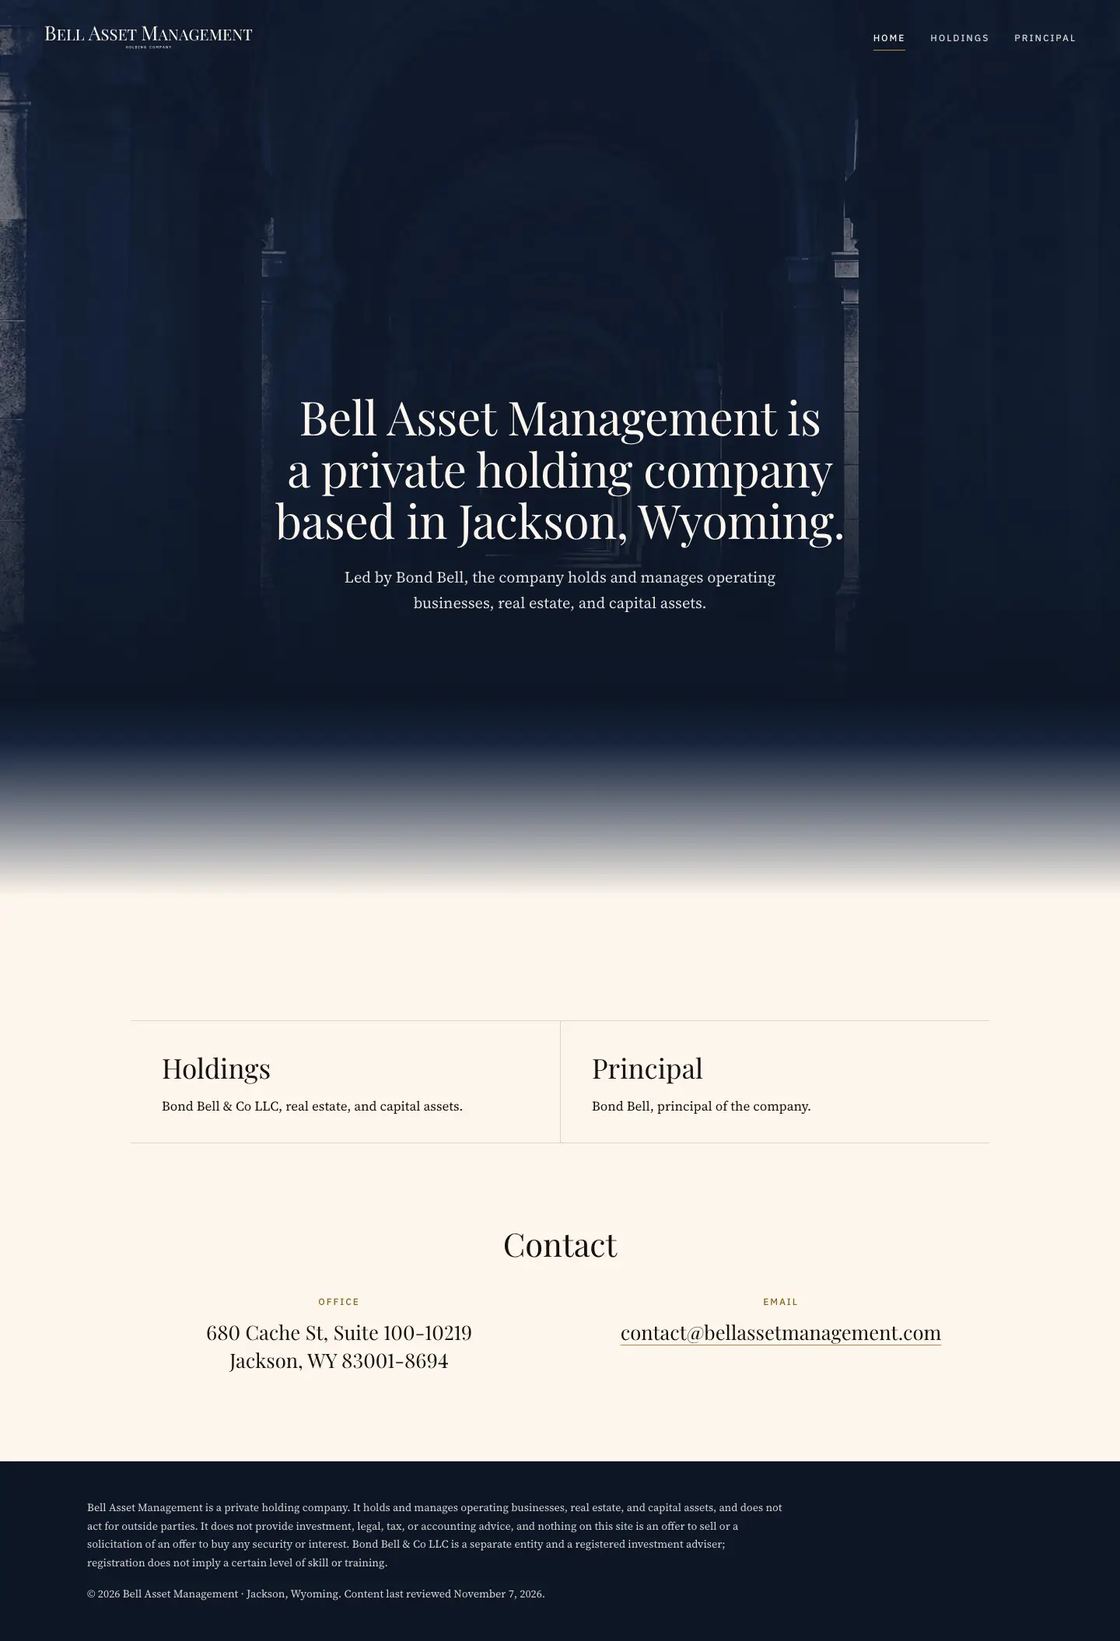
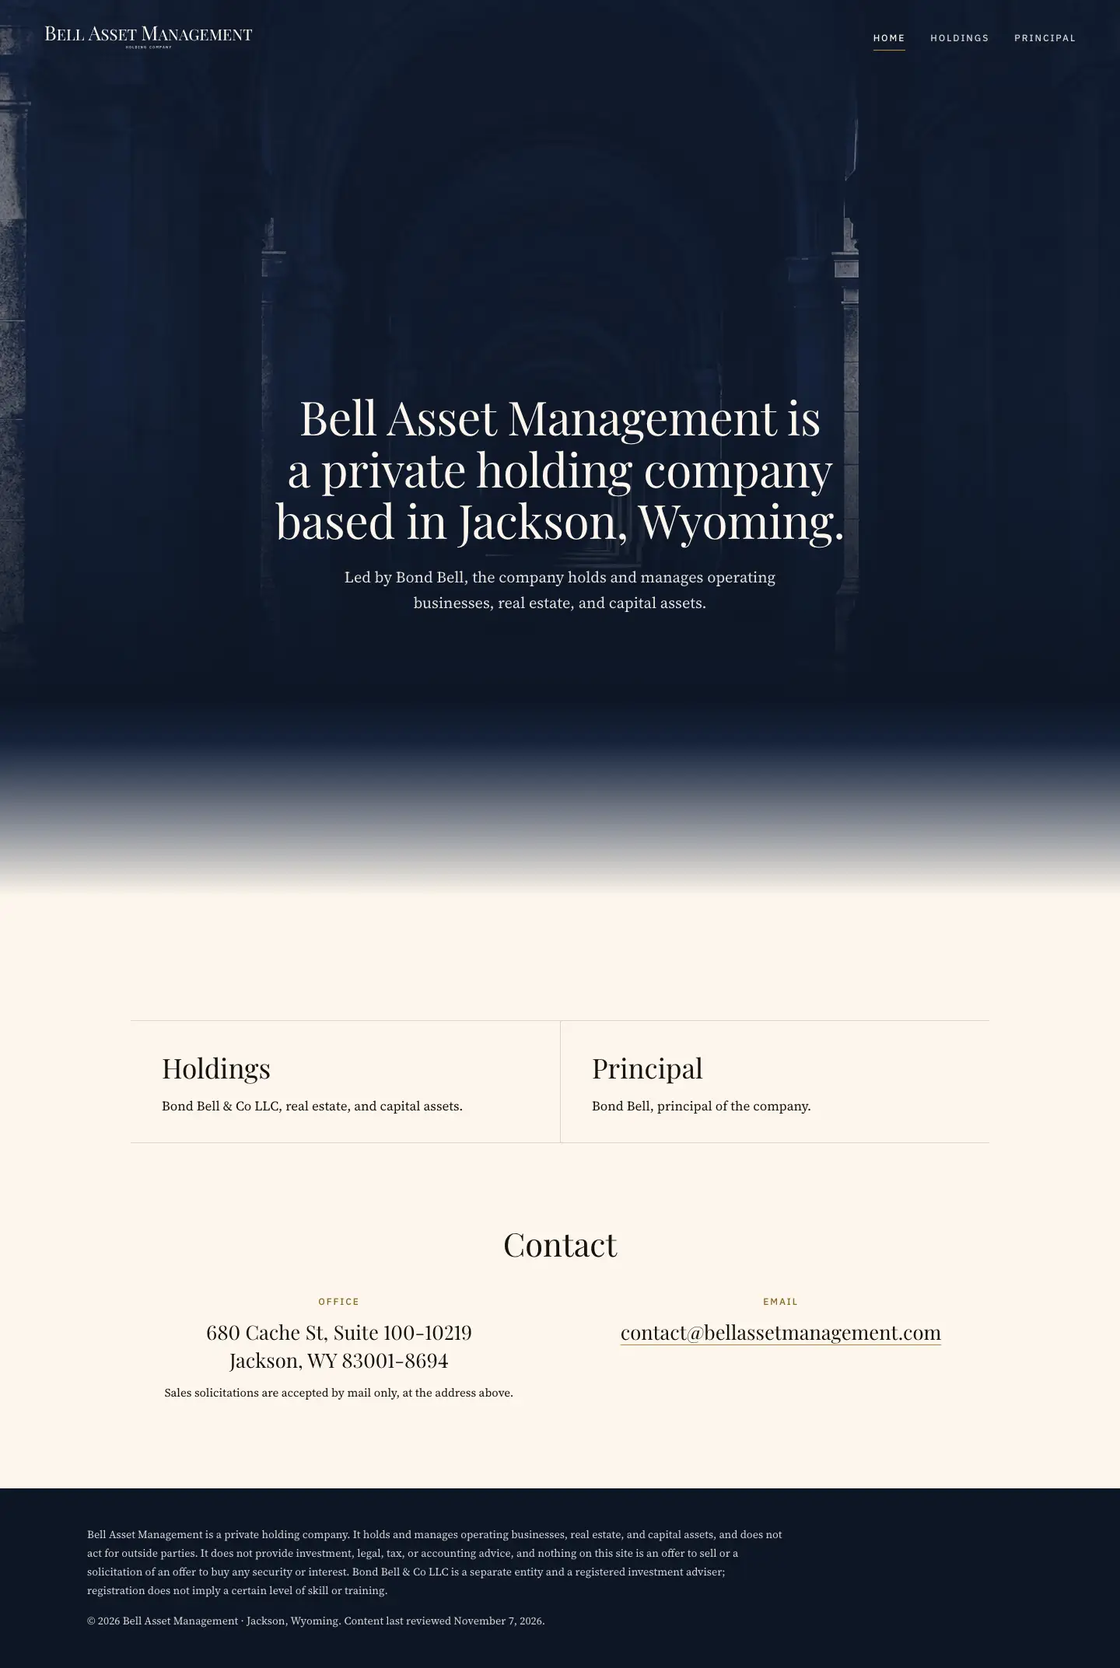
Portico matched to reference photos; front door with brass thumb-latch pull; mail-only solicitations note
Hero and detail plates regenerated from reference photos (refs kept out of the repo). Door: real
entrance, flanking lanterns and wall mailbox removed, brass curved pull with thumb latch on the
left. Cornice plate replaced with an Ionic capital. Contact: 'Sales solicitations are accepted by
mail only, at the address above.' Address numbers no longer split across lines.

diff --git a/src/iterations/registry.ts b/src/iterations/registry.ts
@@ -41,6 +41,6 @@ export const iterations: Iteration[] = [
     rationale: 'Three pages, each opening on a navy photograph of a stone arcade that blends into a cream body below. Navigation sits over the photograph.',
     pages: [{ href: '', label: 'Home' }, { href: 'holdings/', label: 'Holdings' }, { href: 'principal/', label: 'Principal' }] },
   { n: '11', family: 'Architectural', name: 'Portico',
-    rationale: 'Single page using the forms of a Greek Revival house: a navy photograph of a two-story portico and a symmetrical header with the wordmark between two pairs of links. Each section heading sits in a ruled band, and the holdings are set between vertical rules.',
+    rationale: 'Single page modeled on a Greek Revival house with an Ionic portico: a navy photograph of the house and a symmetrical header with the wordmark between two pairs of links. Each section heading sits in a ruled band, and the holdings are set between vertical rules.',
     pages: [{ href: '', label: 'Home' }] },
 ];

diff --git a/src/iterations/11/style.css b/src/iterations/11/style.css
@@ -53,7 +53,7 @@
 .i11 .contact-wrap .contact{width:min(100%,52rem)}
 .i11 .contact.bays{text-align:center}
 .i11 .contact .contact-item{padding-block:1rem}
-.i11 .contact-address,.i11 .contact-email{font-style:normal;display:grid;margin-top:.75rem;font-family:var(--font-display);font-size:clamp(1.2rem,1.8vw,1.5rem);line-height:1.4}
+.i11 .contact-address,.i11 .contact-email{font-style:normal;display:grid;margin-top:.75rem;font-family:var(--font-display);font-size:clamp(1.1rem,1.5vw,1.3rem);line-height:1.4}
 .i11 footer{margin-top:clamp(5rem,10vw,8rem);background:var(--navy);color:rgba(253,246,236,.86);padding-block:3rem}
 .i11 .foot{display:grid;grid-template-columns:minmax(0,1fr) minmax(0,3fr);gap:2rem;border-top:1px solid var(--rule-on-dark);padding-top:2rem}
 .i11 .foot img{width:200px;height:auto}

diff --git a/src/styles/base.css b/src/styles/base.css
@@ -25,3 +25,6 @@ address,.contact-email{font-variant-numeric:lining-nums}
 /* Practice nested inside its adviser's holding card (shared across iterations). */
 .holding .practice{margin-top:1.5rem;padding-top:1.25rem;border-top:1px solid color-mix(in srgb,currentColor 18%,transparent);display:grid;gap:.5rem}
 .holding .practice-name{font-family:var(--font-display);font-weight:400;font-size:1.25rem;line-height:1.3}
+/* Solicitation note under the office address (shared). Body face, slightly smaller; ink for contrast. */
+.contact-note{margin-top:.75rem;font-family:var(--font-body);font-size:.9375rem;line-height:1.55;font-variant-numeric:normal}
+.nowrap{white-space:nowrap}

diff --git a/src/content/site.ts b/src/content/site.ts
@@ -79,6 +79,8 @@ export const contact = {
   addressLabel: 'Office',
   addressLines: ['680 Cache St, Suite 100-10219', 'Jackson, WY 83001-8694'],
   email: 'contact@bellassetmanagement.com',
+  // Bond's policy (2026-11-07): sales solicitations by letter only.
+  solicitationNote: 'Sales solicitations are accepted by mail only, at the address above.',
 };
 
 // Not changed in the copy revision: a new date would imply a review that has not happened.

diff --git a/assets/inbox/24-hero-11-house/NOTES.md b/assets/inbox/24-hero-11-house/NOTES.md
@@ -1,0 +1,28 @@
+# Brief 24: Portico
+
+Generated with the built-in image generation tool using both private reference photographs as architectural references. Outputs are unretouched and ungraded.
+
+## raw-1.png exact prompt
+
+```text
+Use case: photorealistic-natural.
+Create a new photographic hero image, landscape exactly 1536x1024 pixels. Use the two attached reference photographs only to match the identity and architecture of the house; do not copy either reference photo or its composition into the output.
+Subject: the same two-story white clapboard historic house, seen in a natural three-quarter view from the lawn similar to reference 2. Match closely: centered front-gable pediment over a full-height portico with exactly four tall fluted Ionic columns; second-floor balcony recessed inside the portico with white turned balusters, supported by dark scroll brackets; black louvered shutters; low hipped roof with dark green shingles; two tall brick chimneys; red brick foundation and broad red brick front steps. Preserve the reference house's proportions and window arrangement.
+Composition: full-bleed landscape hero. Place the complete house right of center, mostly within the right two thirds, with comfortable space around the roof, steps and sides. Keep the entire left third calm and dark with softly detailed old cedars, magnolias or deep blue sky, suitable for a headline to be added later. No headline in the image. Large old cedars and magnolias frame the property without obscuring the key portico architecture. Natural eye-level lawn viewpoint and restrained normal lens perspective.
+Lighting: dusk under a deep blue sky, soft remaining ambient light revealing white clapboard and columns, warm gentle light glowing naturally in the windows. Photographic realism, believable materials, restrained color and contrast, no theatrical lighting, no illustration or CGI appearance.
+Exclude all people or body parts, animals, vehicles, text, letters, numbers, house numbers, signage, mailboxes, plaques, flags, watermarks, TV antennas, satellite dishes, wiring, air conditioners and other modern clutter. Nothing awkwardly cropped at the frame edges.
+Variant 1: quiet early blue-hour dusk, natural balance of cool ambient light and warm windows.
+```
+
+## raw-2.png exact prompt
+
+```text
+Use case: photorealistic-natural.
+Create a new photographic hero image, landscape exactly 1536x1024 pixels. Use the two attached reference photographs only to match the identity and architecture of the house; do not copy either reference photo or its composition into the output.
+Subject: the same two-story white clapboard historic house, seen in a natural three-quarter view from the lawn similar to reference 2. Match closely: centered front-gable pediment over a full-height portico with exactly four tall fluted Ionic columns; second-floor balcony recessed inside the portico with white turned balusters, supported by dark scroll brackets; black louvered shutters; low hipped roof with dark green shingles; two tall brick chimneys; red brick foundation and broad red brick front steps. Preserve the reference house's proportions and window arrangement.
+Composition: full-bleed landscape hero. Place the complete house right of center, mostly within the right two thirds, with comfortable space around the roof, steps and sides. Keep the entire left third calm and dark with softly detailed old cedars, magnolias or deep blue sky, suitable for a headline to be added later. No headline in the image. Large old cedars and magnolias frame the property without obscuring the key portico architecture. Natural eye-level lawn viewpoint and restrained normal lens perspective.
+Lighting: dusk under a deep blue sky, soft remaining ambient light revealing white clapboard and columns, warm gentle light glowing naturally in the windows. Photographic realism, believable materials, restrained color and contrast, no theatrical lighting, no illustration or CGI appearance.
+Exclude all people or body parts, animals, vehicles, text, letters, numbers, house numbers, signage, mailboxes, plaques, flags, watermarks, TV antennas, satellite dishes, wiring, air conditioners and other modern clutter. Nothing awkwardly cropped at the frame edges.
+Variant 2: slightly later blue-hour dusk with a deeper blue sky, softly luminous warm windows and a subtly wider lawn viewpoint. Keep the same faithful house architecture and calm dark left third.
+```
+

diff --git a/assets/inbox/26-detail-11-capital/NOTES.md b/assets/inbox/26-detail-11-capital/NOTES.md
@@ -1,0 +1,23 @@
+# Brief 26: column capital, iteration 11
+
+Generated with the built-in image generation tool using `_ref/house-2.png` as an architectural reference. Saved directly without grading or retouching.
+
+## raw-1.png exact prompt
+
+```text
+Use case: photorealistic-natural
+Create one photographic architectural detail plate, portrait 1024x1536 pixels, intended to display at about 26rem wide beside text.
+Input image: the attached house photograph is a private architectural reference only. Generate a new close viewpoint; do not reproduce or embed the reference photograph.
+Subject: close view looking upward at the top of one tall white fluted Ionic column of this house. Match its restrained painted American Greek Revival Ionic capital: paired compact spiral volutes, simple curved connecting cushion, thin square abacus, slender deeply fluted shaft. The complete capital is clearly visible with comfortable space around both volutes, meeting the wide plain white entablature with its simple horizontal molding bands. The shaft continues naturally through the bottom edge; entablature continues naturally beyond the top and sides. Behind it show only a small sliver of white horizontal clapboard and an edge of a black shutter, subordinate to the capital. Slightly oblique, natural upward perspective with a normal lens, no wide-angle distortion. Crisp afternoon side light reveals the spiral carving and fluting, subtle real painted wood texture, soft cool shadows, restrained natural photographic colors. No ornate Corinthian foliage. Balanced deliberate framing, no awkwardly clipped ornamental details.
+No people or body parts, animals, vehicles, text, letters, numbers, house numbers, signage, mailboxes, plaques, flags, watermarks, TV antennas, satellite dishes, wiring, air conditioners, or modern clutter. No grading, retouching, cinematic effects or exaggerated HDR. Variant 1: nearly frontal low-angle study, with a subtle view of the right side of the capital.
+```
+
+## raw-2.png exact prompt
+
+```text
+Use case: photorealistic-natural
+Create one photographic architectural detail plate, portrait 1024x1536 pixels, intended to display at about 26rem wide beside text.
+Input image: the attached house photograph is a private architectural reference only. Generate a new close viewpoint; do not reproduce or embed the reference photograph.
+Subject: close view looking upward at the top of one tall white fluted Ionic column of this house. Match its restrained painted American Greek Revival Ionic capital: paired compact spiral volutes, simple curved connecting cushion, thin square abacus, slender deeply fluted shaft. The complete capital is clearly visible with comfortable space around both volutes, meeting the wide plain white entablature with its simple horizontal molding bands. The shaft continues naturally through the bottom edge; entablature continues naturally beyond the top and sides. Behind it show only a small sliver of white horizontal clapboard and an edge of a black shutter, subordinate to the capital. Slightly oblique, natural upward perspective with a normal lens, no wide-angle distortion. Crisp afternoon side light reveals the spiral carving and fluting, subtle real painted wood texture, soft cool shadows, restrained natural photographic colors. No ornate Corinthian foliage. Balanced deliberate framing, no awkwardly clipped ornamental details.
+No people or body parts, animals, vehicles, text, letters, numbers, house numbers, signage, mailboxes, plaques, flags, watermarks, TV antennas, satellite dishes, wiring, air conditioners, or modern clutter. No grading, retouching, cinematic effects or exaggerated HDR. Variant 2: a slightly more oblique low-angle study, showing the left return of the capital while keeping both front spiral volutes fully legible. The capital occupies the upper middle of the portrait and the sunlit fluted shaft anchors the lower half.
+```

diff --git a/assets/inbox/25-detail-11-door-real/NOTES.md b/assets/inbox/25-detail-11-door-real/NOTES.md
@@ -1,0 +1,12 @@
+# Brief 25: Portico
+
+Generated two variants using the built-in image generation tool and `_ref/door.png` as the architectural reference. Both calls used the identical prompt below. Outputs were copied without grading or retouching.
+
+## Exact prompt used for both variants
+
+```text
+Use case: precise-object-edit.
+Create a faithful photographic architectural detail plate of the real entrance in the supplied private reference photograph. Use the reference only to match the architecture, and generate a new photograph rather than copying the source photo into the output. Portrait 1024x1536 pixels, intended to display at about 18rem wide. Photographic realism, natural lens perspective, restrained natural daylight and color. Match the white paneled single door, narrow glazed sidelights, flat entablature, tall fluted white columns on their white square bases at each side, dark structural brackets under the balcony, single centered hanging lantern, white clapboards, black shutters, red brick porch floor and brick steps. Preserve the reference's architectural proportions, arrangement, materials and character. Centered frontal composition with enough breathing room to avoid awkward cropping of the architectural features at frame edges.
+Make exactly these three changes: (1) Remove both lanterns standing on the porch floor beside the column bases and show plain brick floor in their places. Keep the single hanging lantern above. (2) Remove the small black mailbox on the wall to the left of the door, leaving continuous matching white clapboards. (3) Replace the old lockset on the LEFT side of the door leaf with a solid warm aged brass vertical curved pull handle: a tall grip bowed outward in a gentle C curve, mounted on a slim vertical brass backplate with rounded ends, with a brass thumb-press latch button at the top of the grip. Remove the old knob and keyhole entirely. Keep the round door knocker in the upper center of the door. Ensure the curved brass pull is clearly legible at this scale and remains on the left of the door leaf.
+No people or body parts, animals, vehicles, text, letters, numbers, house numbers, signage, mailboxes, plaques, flags, watermarks, TV antenna, satellite dish, wiring, air conditioners, or modern clutter. No added decorative objects. No color grading or retouching. Deliver one image.
+```

diff --git a/codex-briefs/25-detail-11-door-real.md b/codex-briefs/25-detail-11-door-real.md
@@ -1,0 +1,23 @@
+# Brief 25: front door, iteration 11 (Portico), from a reference photograph
+
+You are the illustrator. Work ONLY inside the current directory. Reference: `_ref/door.png` (also attached), the house's real front entrance.
+
+## Purpose
+Detail plate, PORTRAIT 1024x1536, shown at about 18rem wide.
+
+## Subject
+Reproduce this entrance faithfully: the white paneled door, the narrow sidelights, the flat entablature, the fluted columns on their white bases at each side, the dark brackets and the single hanging lantern under the balcony, the clapboards, the black shutters, the brick porch floor, and the brick steps.
+
+Make exactly these changes:
+1. REMOVE the two lanterns standing on the porch floor beside the column bases. Show plain brick floor there.
+2. REMOVE the small black mailbox on the wall to the left of the door.
+3. Replace the door's lockset with a solid brass, vertical, curved pull handle: a tall grip bowed outward in a gentle C curve on a slim vertical brass backplate with rounded ends, with a brass thumb-press latch button at the top of the grip. Warm aged brass. Place it on the LEFT side of the door leaf, where the current lock is. Remove the old knob and keyhole entirely. Keep the round door knocker in the upper center of the door.
+
+## Must not appear
+No people or body parts, no animals, no vehicles, no text, letters, numbers, house numbers, signage, mailboxes, plaques, flags, or watermarks. No TV antenna, satellite dish, wiring, air conditioners, or other modern clutter. Nothing awkwardly cropped at the frame edges. No em dashes in any file.
+
+## Method
+Use your built-in image generation tool with the attached reference photographs. Photographic realism, natural lens, restrained. Save two variants as `raw-1.png` and `raw-2.png`. Do not grade or retouch. The reference photos are private: do not copy them into your outputs, only use them to match the architecture.
+
+## Report
+Write `NOTES.md` with the exact prompt used.

diff --git a/codex-briefs/24-hero-11-house.md b/codex-briefs/24-hero-11-house.md
@@ -1,0 +1,18 @@
+# Brief 24: hero, iteration 11 (Portico), matched to the reference house
+
+You are the illustrator. Work ONLY inside the current directory. References: `_ref/house-1.png`, `_ref/house-2.png` (also attached).
+
+## Purpose
+Full-bleed hero, landscape 1536x1024. The headline is set over the LEFT third of the frame, so place the house right of center and keep the left third calm (dark trees or sky).
+
+## Subject
+A new photograph of the house in the references, at dusk under a deep blue sky, with warm light in the windows. Match its architecture closely: two-story white clapboard house; a centered front-gable pediment over a full-height portico with four tall fluted Ionic columns; a second-floor balcony inside the portico with white turned balusters, carried on dark scroll brackets; black louvered shutters; a low hipped roof with dark green shingles; two tall brick chimneys; a red brick foundation and broad red brick front steps; large old cedars and magnolias around it. Three-quarter view from the lawn, similar to the second reference.
+
+## Must not appear
+No people or body parts, no animals, no vehicles, no text, letters, numbers, house numbers, signage, mailboxes, plaques, flags, or watermarks. No TV antenna, satellite dish, wiring, air conditioners, or other modern clutter. Nothing awkwardly cropped at the frame edges. No em dashes in any file.
+
+## Method
+Use your built-in image generation tool with the attached reference photographs. Photographic realism, natural lens, restrained. Save two variants as `raw-1.png` and `raw-2.png`. Do not grade or retouch. The reference photos are private: do not copy them into your outputs, only use them to match the architecture.
+
+## Report
+Write `NOTES.md` with the exact prompt used.

diff --git a/codex-briefs/23-detail-11-entry-hardware.md b/codex-briefs/23-detail-11-entry-hardware.md
@@ -1,0 +1,19 @@
+# Brief 23: entry door hardware change (iteration 11, Portico)
+
+You are the illustrator. Work ONLY inside the current directory.
+
+## Task
+Edit the attached photograph of a Greek Revival entrance (also saved here as `_ref/entry-current.png`). Keep everything about it the same: the paneled door, the narrow sidelights, the rectangular transom, the pilasters and entablature, the clapboards, the porch floor, the framing, the light, and the camera position.
+
+Change only the door hardware:
+1. Move it to the OPPOSITE side of the door. It is currently on the right side of the door; it must be on the LEFT side, near the left edge of the door leaf. Remove every trace of the old knob and keyhole from the right side so that side is plain painted panel.
+2. Replace the round knob with a solid brass, vertical, curved pull handle: a tall grip bowed outward in a gentle C curve, mounted on a slim vertical brass backplate, with a brass thumb-press latch button (a small lever or push button for the thumb) at the top of the grip. Warm aged brass, not shiny gold, not black.
+
+## Method
+Use your built-in image generation tool, giving it the attached image as the source to edit. PORTRAIT 1024x1536. Produce two variants, saved as `raw-1.png` and `raw-2.png`. Do not grade or retouch.
+
+## Must not appear
+No people, no text, no house numbers, no mail slot, no other hardware on the door, nothing else changed. No em dashes in any file.
+
+## Report
+Write `NOTES.md` with the exact prompt used.

diff --git a/assets/inbox/23-detail-11-entry-hardware/NOTES.md b/assets/inbox/23-detail-11-entry-hardware/NOTES.md
@@ -1,0 +1,13 @@
+# Brief 23: Entry door hardware
+
+Tool: built-in image generation. Two independent edits of `_ref/entry-current.png`. Outputs saved directly without grading or retouching.
+
+## Exact prompt used for both variants
+
+```text
+Use case: precise-object-edit
+Edit target: the supplied photograph of a Greek Revival entrance.
+Output: portrait 1024x1536.
+Change only the door hardware. Remove the existing round knob and keyhole completely from the viewer's RIGHT side of the door leaf, restoring continuous matching white painted wood with no trace, holes, shadows, or hardware. Install one solid warm aged brass vertical curved pull handle on the viewer's LEFT side of the door leaf, close to its left edge, at the corresponding practical hand height. The tall solid grip bows outward in a gentle C curve, mounted on a slim vertical brass backplate, with a small brass thumb-press latch lever or button at the top of the grip. Make the warm aged brass subdued and naturally patinated, not shiny gold and not black. No separate knob, keyhole, deadbolt, or other door hardware.
+Preserve everything else exactly: paneled door and all panel shapes, narrow sidelights, rectangular transom, pilasters, entablature, clapboards, porch floor, reflections, framing, natural light, textures, colors, camera position and perspective. Do not mirror the image. No people, text, house numbers, mail slot, or other added objects. No grading or retouching. Produce one variant.
+```

diff --git a/codex-briefs/26-detail-11-capital.md b/codex-briefs/26-detail-11-capital.md
@@ -1,0 +1,18 @@
+# Brief 26: column capital, iteration 11 (Portico)
+
+You are the illustrator. Work ONLY inside the current directory. Reference: `_ref/house-2.png` (also attached).
+
+## Purpose
+Detail plate, PORTRAIT 1024x1536, shown at about 26rem wide beside text.
+
+## Subject
+Close view looking up at the top of one of the house's tall fluted white Ionic columns: the volute capital meeting the wide plain entablature, crisp afternoon side light, a sliver of clapboard and a black shutter edge behind. Match the column and capital style in the reference.
+
+## Must not appear
+No people or body parts, no animals, no vehicles, no text, letters, numbers, house numbers, signage, mailboxes, plaques, flags, or watermarks. No TV antenna, satellite dish, wiring, air conditioners, or other modern clutter. Nothing awkwardly cropped at the frame edges. No em dashes in any file.
+
+## Method
+Use your built-in image generation tool with the attached reference photographs. Photographic realism, natural lens, restrained. Save two variants as `raw-1.png` and `raw-2.png`. Do not grade or retouch. The reference photos are private: do not copy them into your outputs, only use them to match the architecture.
+
+## Report
+Write `NOTES.md` with the exact prompt used.
